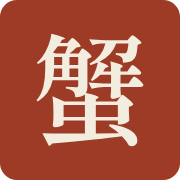
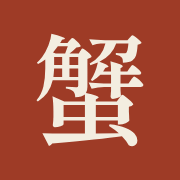
fix: square the seal
The rounded corner was the only place anything but seal red appeared, and a
transparent corner picks up the tab behind it — which reads as a white
border on a light tab. A 落款 has hard edges anyway, and iOS masks
apple-touch-icon itself, so pre-rounding only double-rounds it.

All three files are now opaque in every pixel.

diff --git a/PLAN.md b/PLAN.md
@@ -99,12 +99,18 @@ fluid.
 Decided from a prototype of five directions. The app ships **no favicon at
 all** today, which is the gap this closes.
 
-The mark is a seal stamp: a full-bleed rounded square (6/64 radius, matching
-the app's 2px on a 40px control) filled seal red `#9e3b26`, with 蟹 reversed
-out in paper `#f3ede0` at roughly 43/64 of the box. Seal red is already in
-the system holding the left rule of every context sentence on the paper
-surface; this is the one other place a field of that colour is allowed. No
-vermilion — the ink surface's accent stays on the ink surface.
+The mark is a seal stamp: a full-bleed square filled seal red `#9e3b26`, with
+蟹 reversed out in paper `#f3ede0`. Seal red is already in the system holding
+the left rule of every context sentence on the paper surface; this is the one
+other place a field of that colour is allowed. No vermilion — the ink
+surface's accent stays on the ink surface.
+
+**Square corners, deliberately.** A rounded version shipped first and was
+replaced: the corner was the only place anything but seal red appeared, and a
+transparent corner picks up whatever tab sits behind it, which reads as a
+white border on a light tab. A 落款 has hard edges anyway, and iOS applies
+its own corner mask to `apple-touch-icon` — pre-rounding double-rounds it.
+Every pixel of all three files is now opaque.
 
 Why this one: legibility at 16px does not depend on strokes resolving. A
 solid field survives any size and the monochrome pinned-tab test, where a
